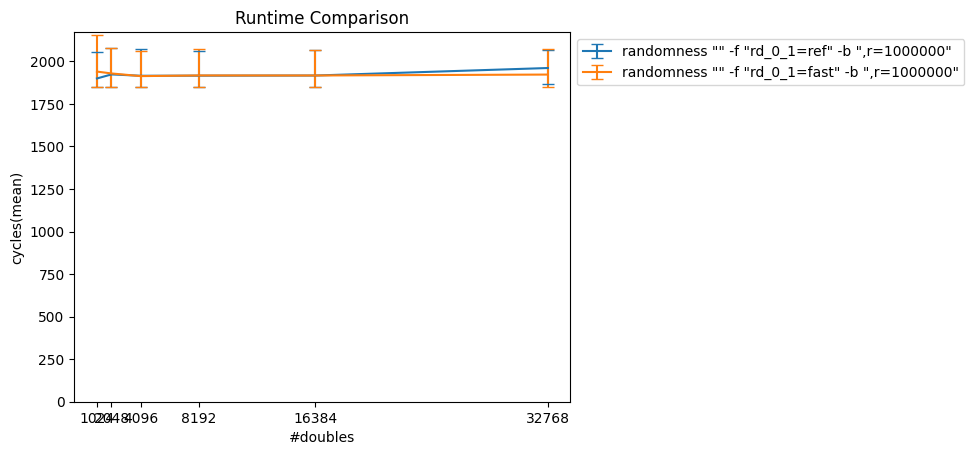
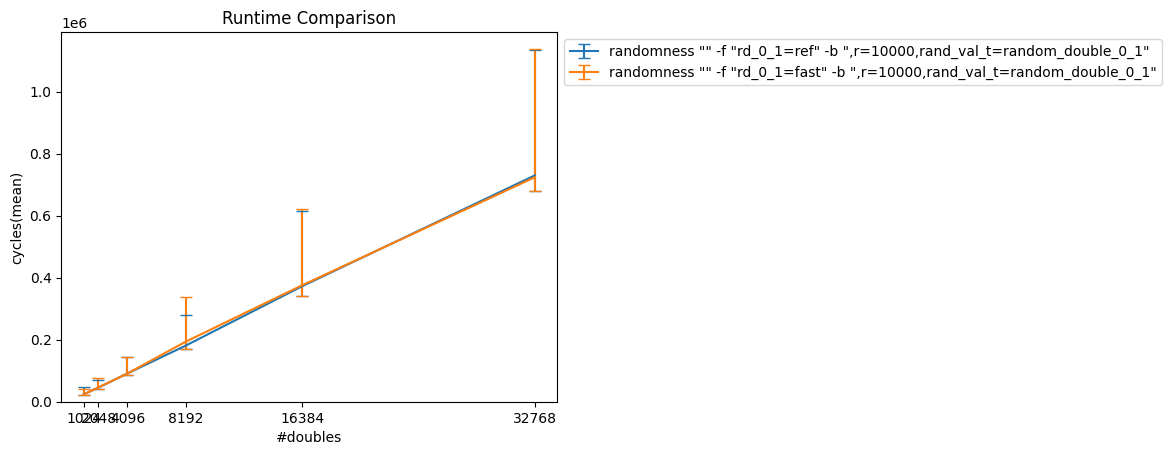
fixed plot

diff --git a/benchmark/benchmark_randomness.cpp b/benchmark/benchmark_randomness.cpp
@@ -30,7 +30,7 @@ public:
 protected:
     void initialize () {
         ints = (int*) malloc(nr_ints*sizeof(int));
-        doubles = (FT*) malloc(nr_doubles*sizeof(FT));
+        doubles = (FT*) malloc(nr_doubles*sizeof(double));
         prng_init();
     }
     
@@ -50,22 +50,22 @@ protected:
                 break;
             case random_double:
                 for(int i = 0; i < nr_doubles; ++i) {
-                    ints[i] = prng_get_random_double();
+                    doubles[i] = prng_get_random_double();
                 };
                 break;
             case random_double_0_1:
                 for(int i = 0; i < nr_doubles; ++i) {
-                    ints[i] = prng_get_random_double_0_1();
+                    doubles[i] = prng_get_random_double_0_1();
                 };
                 break;
             case random_double_normal:
                 for(int i = 0; i < nr_doubles; ++i) {
-                    ints[i] = prng_get_random_double_normal();
+                    doubles[i] = prng_get_random_double_normal();
                 };
                 break;
             case random_double_in_range:
                 for(int i = 0; i < nr_doubles; ++i) {
-                    ints[i] = prng_get_random_double_in_range(-63.0, 64.0);
+                    doubles[i] = prng_get_random_double_in_range(-63.0, 64.0);
                 };
                 break;
             default:

diff --git a/benchmark/benchmark.py b/benchmark/benchmark.py
@@ -520,11 +520,11 @@ BENCHMARKS = [
        {
           "const_configs": [],
           "fun_configs": ["rand_f=std_rand", "rand_f=std_rand_chunked", "rand_f=sr_rand", "rand_f=sr_rand_chunked", "rand_f=sr_rand_vec", "rand_f=mt_rand"],
-          "run_configs": ["r=100000,d=16384,i=16384,rand_chunk_size=512"],
-          "input_configs": [("type", randValTypes)]
+          "run_configs": ["r=10000,d=16384,i=16384,rand_chunk_size=512"],
+          "input_configs": [("rand_val_t", randValTypes)]
        }
     ],
-    "xoption": ("type", randValTypes_),
+    "xoption": ("rand_val_t", randValTypes_),
     "title": ["Runtime Comparison", "Performance comparison", "I/O comparison"],
     "xlabel": ["rand value type", "rand value type", "rand value type"],
     "ylabel": ["cycles(mean)", "flops/cylce(mean)", "bytes/cylce(mean)"]
@@ -536,7 +536,7 @@ BENCHMARKS = [
        {
           "const_configs": [],
           "fun_configs": rd_0_1,
-          "run_configs": ["r=1000000"],
+          "run_configs": ["r=10000,rand_val_t=random_double_0_1"],
           "input_configs": [("d", [2**i for i in range(10,16)])],
        }
     ],
